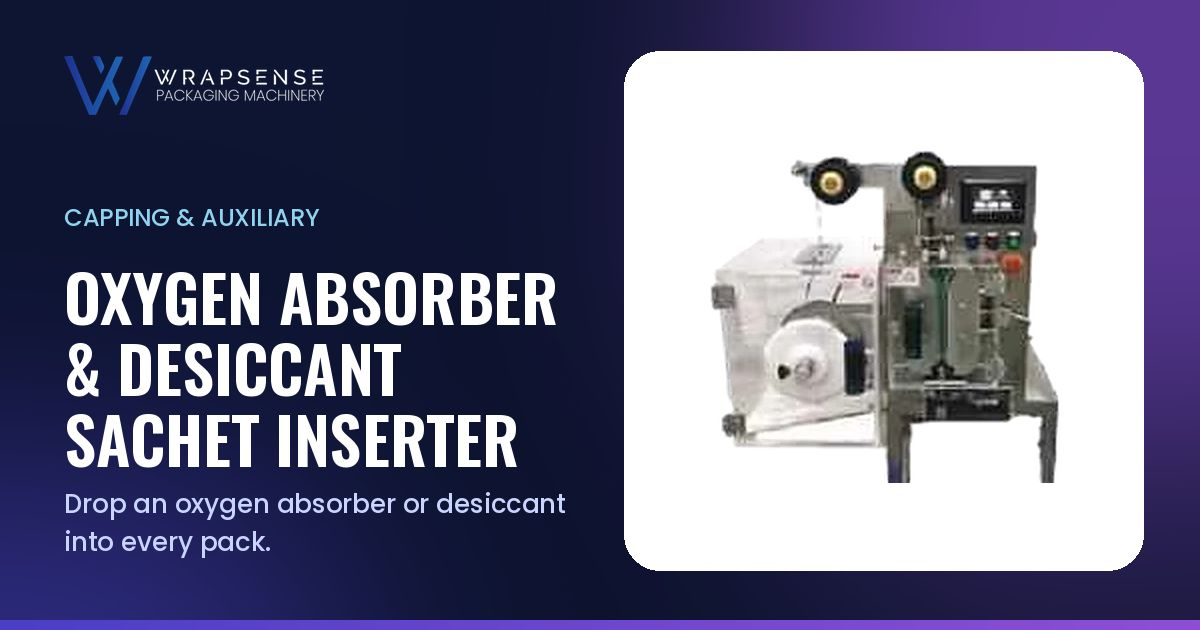
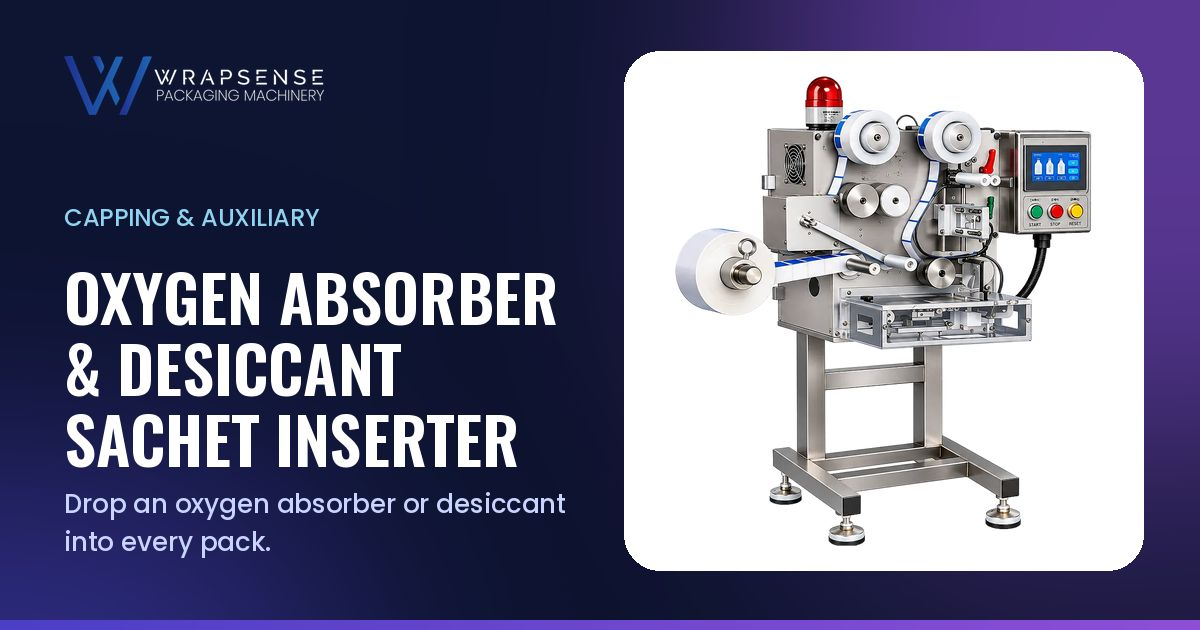
Oxygen sachet inserter: new render; blurry sachet-film photo removed
- New render cut out with the AI mask (filled) so the pure-white label/sachet roll faces stay solid,
  pure-white background pockets removed; 889x1003 WebP with alpha; same filename; OG image regenerated
- Removed the blurry close-up gallery photo (showed a third-party brand name), deleted it and dropped
  it from the catalog extraction script

Claude-Session: https://claude.ai/code/session_01QFn2KCFGMPNr5c9DCf1rvZ

Changed region(s): [[0.555, 0.1206, 0.925, 0.8746]]

diff --git a/tools/extract-catalog-images.py b/tools/extract-catalog-images.py
@@ -40,7 +40,7 @@ MAP = {
   123:('photos','weigher-snacks','photo'), 125:('photos','weigher-install','photo'), 128:('photos','vffs-install','photo'),
   181:('photos','case-erector-action','photo'),
   206:('photos','case-packing-action','photo'), 204:('photos','case-packing-line','photo'),
-  226:('photos','cartoning-action','photo'), 228:('photos','cartoning-rotary','photo'), 250:('photos','sachet-film','photo'), 251:('photos','weigher-detail','photo'),
+  226:('photos','cartoning-action','photo'), 228:('photos','cartoning-rotary','photo'), 251:('photos','weigher-detail','photo'),
 }
 
 tmp = tempfile.mkdtemp()
